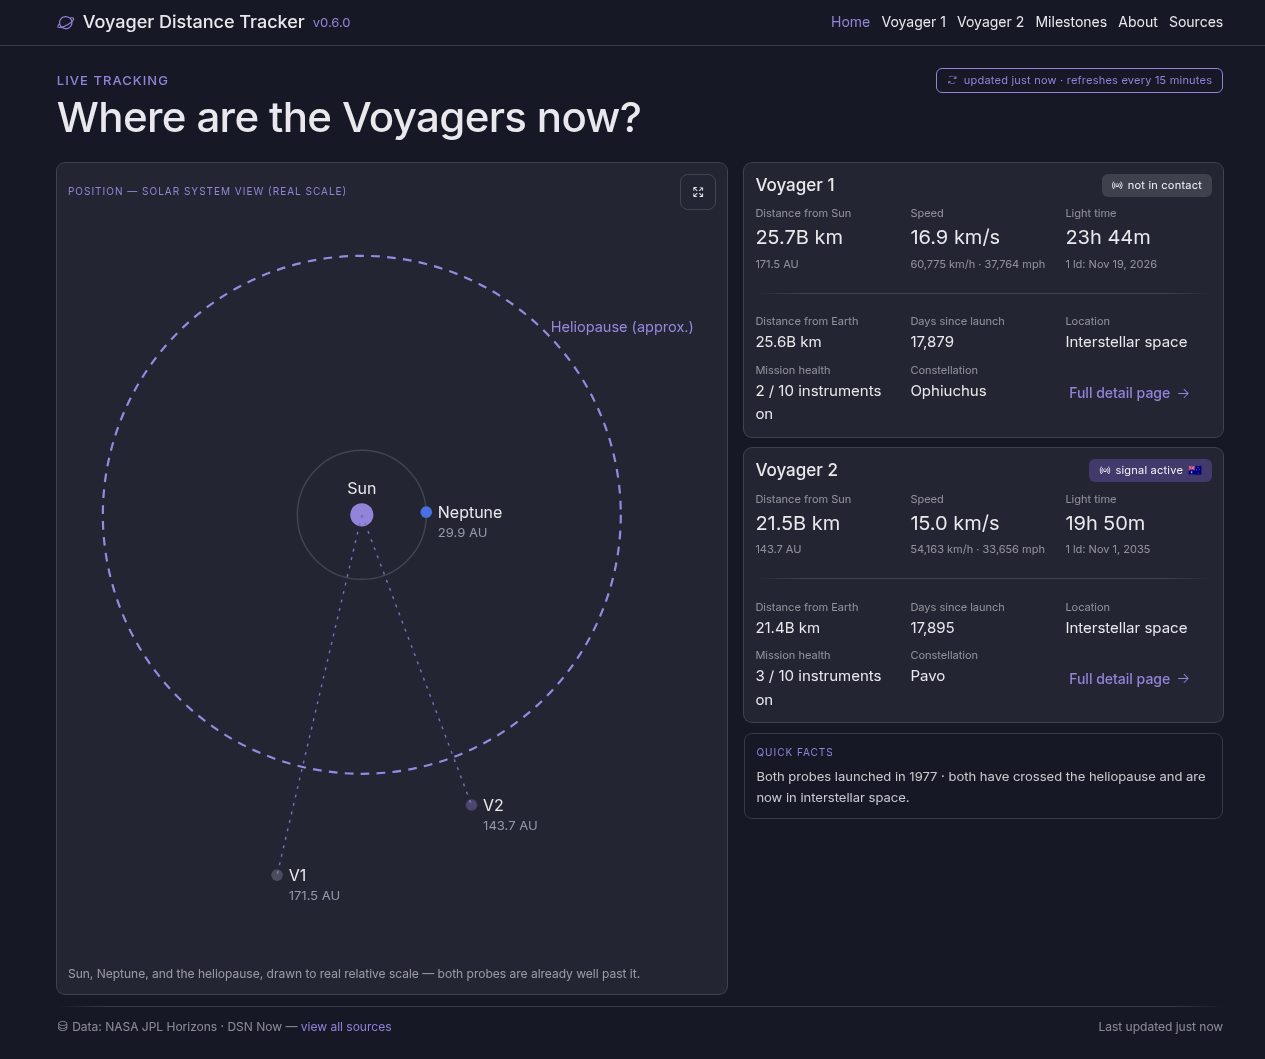
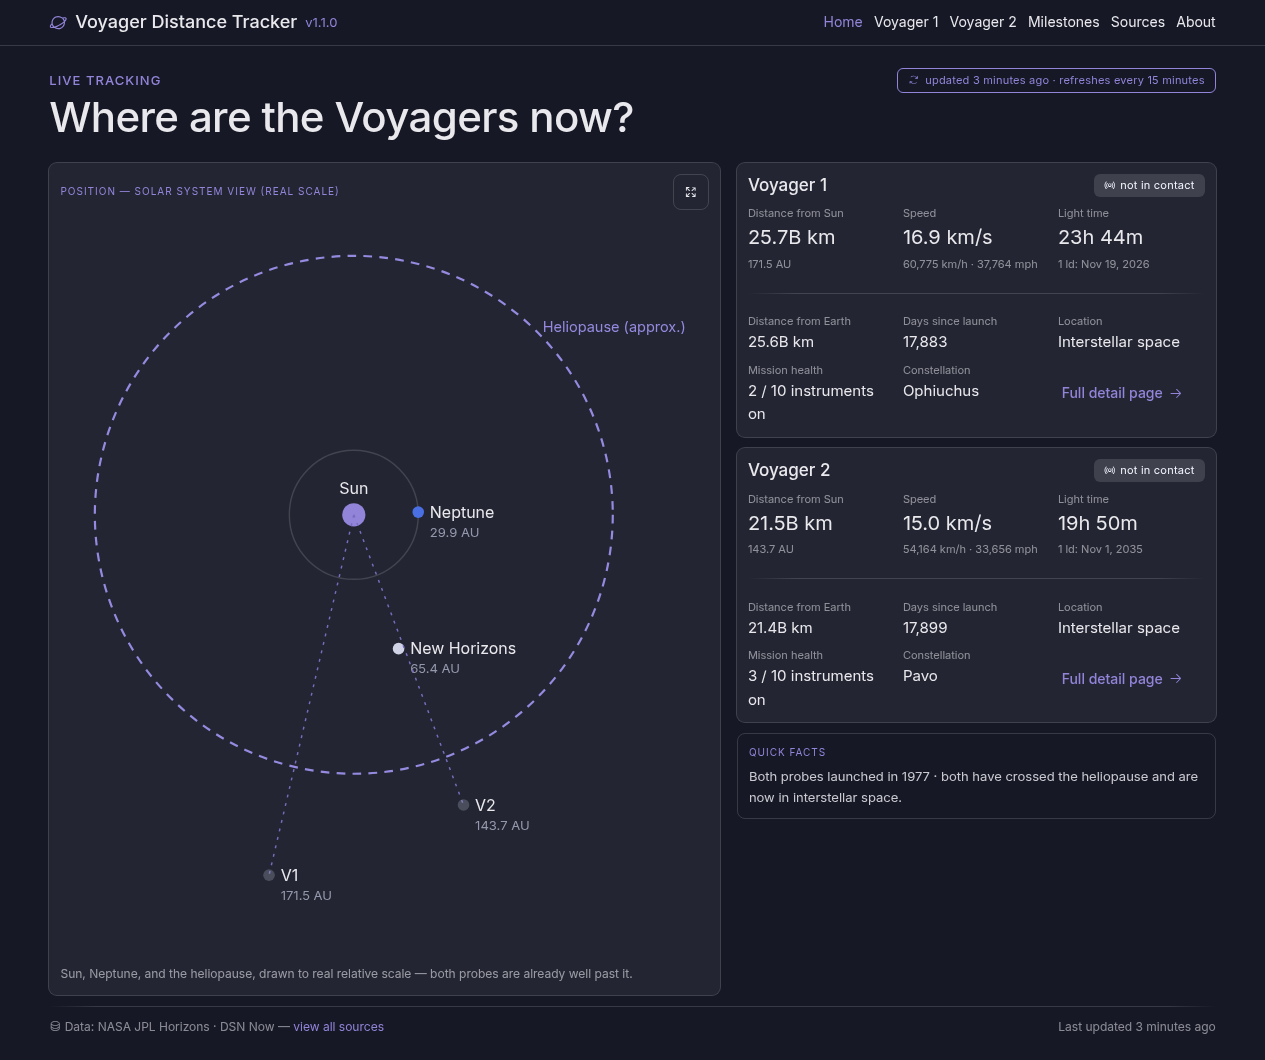
Release v1.1.0: New Horizons scale marker, milestones polish, real mobile-label fix
New Horizons now shows on the home orrery as a quiet scale reference alongside
Neptune (no card/detail page/distance-modal entry — this stays a Voyager
tracker, not a general probe tracker). Milestones page filter buttons are
centered over the desktop timeline and Voyager 2's dates get their own color.
Also fixes the actual cause of unreadable mobile labels: SVG text is now
counter-scaled against the canvas's real rendered size, not just zoom, since
1.0.0's font-size bump alone didn't survive a real phone's narrow viewport.

diff --git a/public/assets/js/app.js b/public/assets/js/app.js
@@ -27,11 +27,25 @@ document.addEventListener('alpine:init', () => {
     dragging: false,
     lastX: 0,
     lastY: 0,
+    // Ratio of the SVG's actual rendered pixel width to its 900-unit viewBox. Labels inside
+    // the canvas are counter-scaled by 1/zoom so they don't grow with zoom, but that alone
+    // still leaves them shrinking with this ratio on a narrow screen -- the viewBox is fixed
+    // at 900 while the canvas itself renders much smaller than that on a phone. Multiplying
+    // the counter-scale by 1/canvasScale as well (see labelScale below) keeps label text a
+    // constant screen size regardless of viewport width, not just regardless of zoom.
+    canvasScale: 1,
 
     show() {
       this.open = true;
       this.scaleMode = 'log';
       this.resetView();
+      this.$nextTick(() => this.updateCanvasScale());
+    },
+    updateCanvasScale() {
+      const svg = this.$refs.canvas;
+      if (!svg) return;
+      const width = svg.getBoundingClientRect().width;
+      if (width > 0) this.canvasScale = width / 900;
     },
     hide() {
       this.open = false;
@@ -84,6 +98,9 @@ document.addEventListener('alpine:init', () => {
       const tx = this.panX + this.centerX - this.centerX * this.zoom;
       const ty = this.panY + this.centerY - this.centerY * this.zoom;
       return `translate(${tx}, ${ty}) scale(${this.zoom})`;
+    },
+    get labelScale() {
+      return 1 / (this.zoom * this.canvasScale);
     },
     get caption() {
       return this.scaleMode === 'log'

diff --git a/public/assets/css/app.css b/public/assets/css/app.css
@@ -266,7 +266,7 @@ a:hover { color: var(--color-accent-300); }
 .about-hero-content { position: relative; z-index: 2; max-width: 640px; }
 .about-text-card { padding: var(--space-4); }
 
-.milestones-legend { display: flex; gap: var(--space-3); margin-bottom: var(--space-4); }
+.milestones-legend { display: flex; gap: var(--space-3); margin-bottom: var(--space-4); justify-content: center; }
 .milestones-legend-btn { cursor: pointer; user-select: none; font-size: 11px; font-weight: 600; padding: 4px 10px; transition: opacity .15s; }
 .milestones-legend-btn.is-dimmed { opacity: .4; }
 
@@ -308,6 +308,7 @@ a:hover { color: var(--color-accent-300); }
   .nav { padding: var(--space-3) var(--space-4); }
   h1 { font-size: 32px; }
 
+  .milestones-legend { justify-content: flex-start; }
   .milestones-timeline-line { left: 10px; transform: none; }
   .milestone-row { grid-template-columns: 20px 1fr; grid-template-areas: "dot card"; align-items: start; }
   .milestone-slot--left, .milestone-slot--right { grid-area: card; justify-self: stretch; max-width: none; }

diff --git a/src/VoyagerDataService.php b/src/VoyagerDataService.php
@@ -48,6 +48,12 @@ final class VoyagerDataService
         'neptune' => ['spkId' => '8', 'label' => 'Neptune'],
         'pluto' => ['spkId' => '9', 'label' => 'Pluto'],
     ];
+    // New Horizons only appears on the home orrery, as a third scale
+    // reference alongside Neptune -- this is the Voyager tracker, not a
+    // general probe tracker, so it deliberately has no probe card, detail
+    // page, or entry in the distance modal's body list. -98 is its NAIF
+    // spacecraft ID (same convention as the Voyagers' spkId above).
+    private const NEW_HORIZONS_SPK_ID = '-98';
 
     // Distance modal geometry: a much larger canvas, honestly showing all
     // bodies' real distances from the Sun on two alternate scales. Log scale
@@ -119,7 +125,7 @@ final class VoyagerDataService
     /** Same check for everything getSummary()/getOrreryLayout()/getDistanceModalLayout() touch. */
     public function isHomeDataFresh(): bool
     {
-        foreach ([...array_keys($this->probes), ...array_keys(self::HELIOCENTRIC_BODIES)] as $slug) {
+        foreach ([...array_keys($this->probes), ...array_keys(self::HELIOCENTRIC_BODIES), 'new-horizons'] as $slug) {
             if (!$this->cache->isFresh("live-{$slug}")) {
                 return false;
             }
@@ -301,6 +307,8 @@ final class VoyagerDataService
         $v2 = $this->fetchLive($this->probes['voyager-2']);
         $neptune = $this->getHeliocentricPosition('neptune', self::HELIOCENTRIC_BODIES['neptune']['spkId']);
         $neptuneAu = $neptune['distanceFromSunKm'] / self::AU_IN_KM;
+        $newHorizons = $this->getHeliocentricPosition('new-horizons', self::NEW_HORIZONS_SPK_ID);
+        $newHorizonsAu = $newHorizons['distanceFromSunKm'] / self::AU_IN_KM;
 
         $v1Au = $v1['distanceFromSunKm'] / self::AU_IN_KM;
         $v2Au = $v2['distanceFromSunKm'] / self::AU_IN_KM;
@@ -313,6 +321,7 @@ final class VoyagerDataService
         $v1Rel = Orrery::project($v1['eclipticLongitudeDeg'], $v1Au * $pxPerAu, 0.0, 0.0);
         $v2Rel = Orrery::project($v2['eclipticLongitudeDeg'], $v2Au * $pxPerAu, 0.0, 0.0);
         $neptuneRel = Orrery::project($neptune['eclipticLongitudeDeg'], $neptuneRadiusPx, 0.0, 0.0);
+        $newHorizonsRel = Orrery::project($newHorizons['eclipticLongitudeDeg'], $newHorizonsAu * $pxPerAu, 0.0, 0.0);
 
         // The "Heliopause (approx.)" label sits on the ring's upper-right
         // diagonal (see home.twig) -- its own rough footprint, in addition
@@ -320,10 +329,10 @@ final class VoyagerDataService
         $heliopauseLabelRightPx = $heliopauseRadiusPx * 0.7071 + 94.0;
         $heliopauseLabelUpPx = $heliopauseRadiusPx * 0.7071;
 
-        $reachRight = max($heliopauseRadiusPx, $heliopauseLabelRightPx, $v1Rel['x'] + self::HOME_ORRERY_LABEL_RIGHT_PX, $v2Rel['x'] + self::HOME_ORRERY_LABEL_RIGHT_PX, $neptuneRel['x'] + self::HOME_ORRERY_LABEL_RIGHT_PX);
-        $reachLeft = max($heliopauseRadiusPx, -$v1Rel['x'], -$v2Rel['x'], -$neptuneRel['x']);
-        $reachDown = max($heliopauseRadiusPx, $v1Rel['y'] + self::HOME_ORRERY_LABEL_DOWN_PX, $v2Rel['y'] + self::HOME_ORRERY_LABEL_DOWN_PX, $neptuneRel['y'] + self::HOME_ORRERY_LABEL_DOWN_PX);
-        $reachUp = max($heliopauseRadiusPx, $heliopauseLabelUpPx, -$v1Rel['y'], -$v2Rel['y'], -$neptuneRel['y']);
+        $reachRight = max($heliopauseRadiusPx, $heliopauseLabelRightPx, $v1Rel['x'] + self::HOME_ORRERY_LABEL_RIGHT_PX, $v2Rel['x'] + self::HOME_ORRERY_LABEL_RIGHT_PX, $neptuneRel['x'] + self::HOME_ORRERY_LABEL_RIGHT_PX, $newHorizonsRel['x'] + self::HOME_ORRERY_LABEL_RIGHT_PX);
+        $reachLeft = max($heliopauseRadiusPx, -$v1Rel['x'], -$v2Rel['x'], -$neptuneRel['x'], -$newHorizonsRel['x']);
+        $reachDown = max($heliopauseRadiusPx, $v1Rel['y'] + self::HOME_ORRERY_LABEL_DOWN_PX, $v2Rel['y'] + self::HOME_ORRERY_LABEL_DOWN_PX, $neptuneRel['y'] + self::HOME_ORRERY_LABEL_DOWN_PX, $newHorizonsRel['y'] + self::HOME_ORRERY_LABEL_DOWN_PX);
+        $reachUp = max($heliopauseRadiusPx, $heliopauseLabelUpPx, -$v1Rel['y'], -$v2Rel['y'], -$neptuneRel['y'], -$newHorizonsRel['y']);
 
         $sun = [
             'x' => $reachLeft + self::HOME_ORRERY_MARGIN_PX,
@@ -337,6 +346,7 @@ final class VoyagerDataService
             'neptuneRadiusPx' => $neptuneRadiusPx,
             'heliopauseRadiusPx' => $heliopauseRadiusPx,
             'neptune' => ['x' => $sun['x'] + $neptuneRel['x'], 'y' => $sun['y'] + $neptuneRel['y'], 'distanceLabel' => Formatter::distanceAu($neptuneAu)],
+            'newHorizons' => ['x' => $sun['x'] + $newHorizonsRel['x'], 'y' => $sun['y'] + $newHorizonsRel['y'], 'distanceLabel' => Formatter::distanceAu($newHorizonsAu)],
             'v1' => ['x' => $sun['x'] + $v1Rel['x'], 'y' => $sun['y'] + $v1Rel['y'], 'distanceLabel' => Formatter::distanceAu($v1Au)],
             'v2' => ['x' => $sun['x'] + $v2Rel['x'], 'y' => $sun['y'] + $v2Rel['y'], 'distanceLabel' => Formatter::distanceAu($v2Au)],
         ];

diff --git a/config/app.php b/config/app.php
@@ -17,7 +17,7 @@ $cacheTtlMinutes = intdiv($cacheTtlSeconds, 60);
 
 return [
     // Keep in sync with composer.json's "version" and CHANGELOG.md's latest entry.
-    'version' => '1.0.0',
+    'version' => '1.1.0',
     'cacheDir' => dirname(__DIR__) . '/var/cache',
     'cacheTtlSeconds' => $cacheTtlSeconds,
     // Derived from cacheTtlSeconds (rather than hardcoded) so it can't drift

diff --git a/CHANGELOG.md b/CHANGELOG.md
@@ -8,6 +8,33 @@ project's first tagged version — 0.5.0 covers everything built so far, pre-1.0
 
 ## [Unreleased]
 
+## [1.1.0] - 2026-08-22
+
+### Added
+
+- New Horizons now shown on the home dashboard orrery as a third scale reference alongside
+  Neptune — a plain, quiet marker with no pulse/contact halo or sun-line, unlike the Voyagers.
+  This is the Voyager tracker, not a general probe tracker, so it gets nothing beyond the
+  marker itself: no probe card, no detail page, no entry in the "Solar system — distances"
+  modal.
+
+### Changed
+
+- Milestones page: the Voyager 1 / Voyager 2 filter buttons are now centered directly over the
+  vertical timeline on desktop, instead of sitting left-aligned above it (still left-aligned on
+  mobile, matching the timeline's own left-edge line there).
+- Milestones page: Voyager 2's event date pills now use Voyager 2's own color instead of the
+  generic accent outline previously shared with Voyager 1's dates.
+
+### Fixed
+
+- Planet/probe labels on the home orrery and distance modal were still unreadably small on real
+  mobile phones despite 1.0.0's font-size bump. The actual cause was the SVG's fixed viewBox
+  scaling every label down again as the canvas rendered narrower — a static font-size increase
+  alone couldn't fully compensate. Labels are now counter-scaled against the canvas's actual
+  rendered pixel size, not just against zoom, keeping them a constant on-screen size regardless
+  of viewport width.
+
 ## [1.0.0] - 2026-08-21
 
 First stable release — the last two placeholder nav pages (Milestones, About) are now built out,

diff --git a/README.md b/README.md
@@ -1,6 +1,6 @@
 # Voyager Distance Tracker
 
-[![Version](https://img.shields.io/badge/version-1.0.0-9184d9)](CHANGELOG.md)
+[![Version](https://img.shields.io/badge/version-1.1.0-9184d9)](CHANGELOG.md)
 [![PHP](https://img.shields.io/badge/PHP-8.1%2B-f97316?logo=php&logoColor=white)](https://www.php.net/)
 [![Database](https://img.shields.io/badge/database-none%20%28by%20design%29-4a6fe3)](#architecture)
 [![License](https://img.shields.io/badge/license-MIT-22c55e)](LICENSE)
@@ -28,8 +28,9 @@ on their public data.
   band's real deep-space frequency range (e.g. "X-band · 8,400–8,450 MHz")
   and a unit clarification for the data rate ("bps = bits per second").
 - Home dashboard orrery drawn to true relative scale: Sun, Neptune, the
-  heliopause boundary, and both probes, sized dynamically around whatever the
-  live data actually needs.
+  heliopause boundary, New Horizons (shown only here, as a scale reference —
+  this is the Voyager tracker, not a general probe tracker), and both probes,
+  sized dynamically around whatever the live data actually needs.
 - "Solar system — distances" modal with pan/zoom log-scale and true-linear-scale views
   of the whole solar system, including Mars, with a note on which direction
   the bodies orbit.
